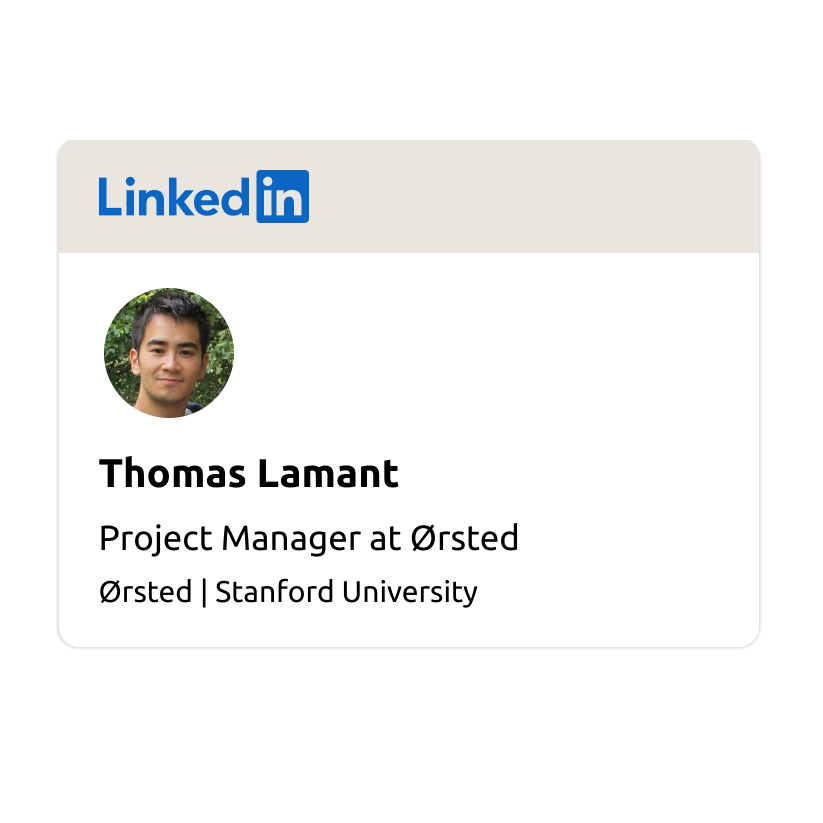
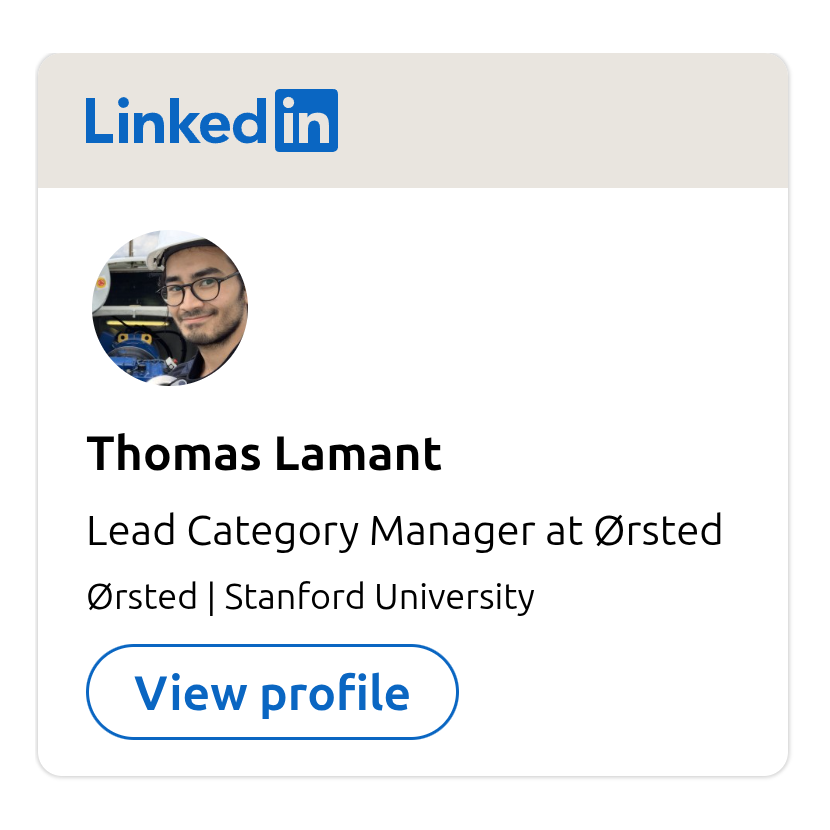
feat(links): update LinkedIn link to Category Manager position

diff --git a/app/pages/links.vue b/app/pages/links.vue
@@ -78,18 +78,18 @@ defineOgImageComponent("NuxtSeo", {
         alt="LinkedIn"
         row="bottom"
         title="LinkedIn"
-        :size="823"
-        link="https://www.linkedin.com/in/thomas-lamant-9a28423b/"
+        :size="774"
+        link="https://www.linkedin.com/in/tmlmt/"
         link-text="my LinkedIn profile"
       >
-        I currently work
+        I currently work at
         <a
           href="https://orsted.com/"
           class="font-bold text-white underline visited:text-white hover:text-white"
           target="_blank"
           >Ørsted</a
         >
-        as a Project Manager in Offshore Wind Power.
+        as a Category Manager in Offshore Wind Power.
       </LinkItem>
     </div>
   </div>
